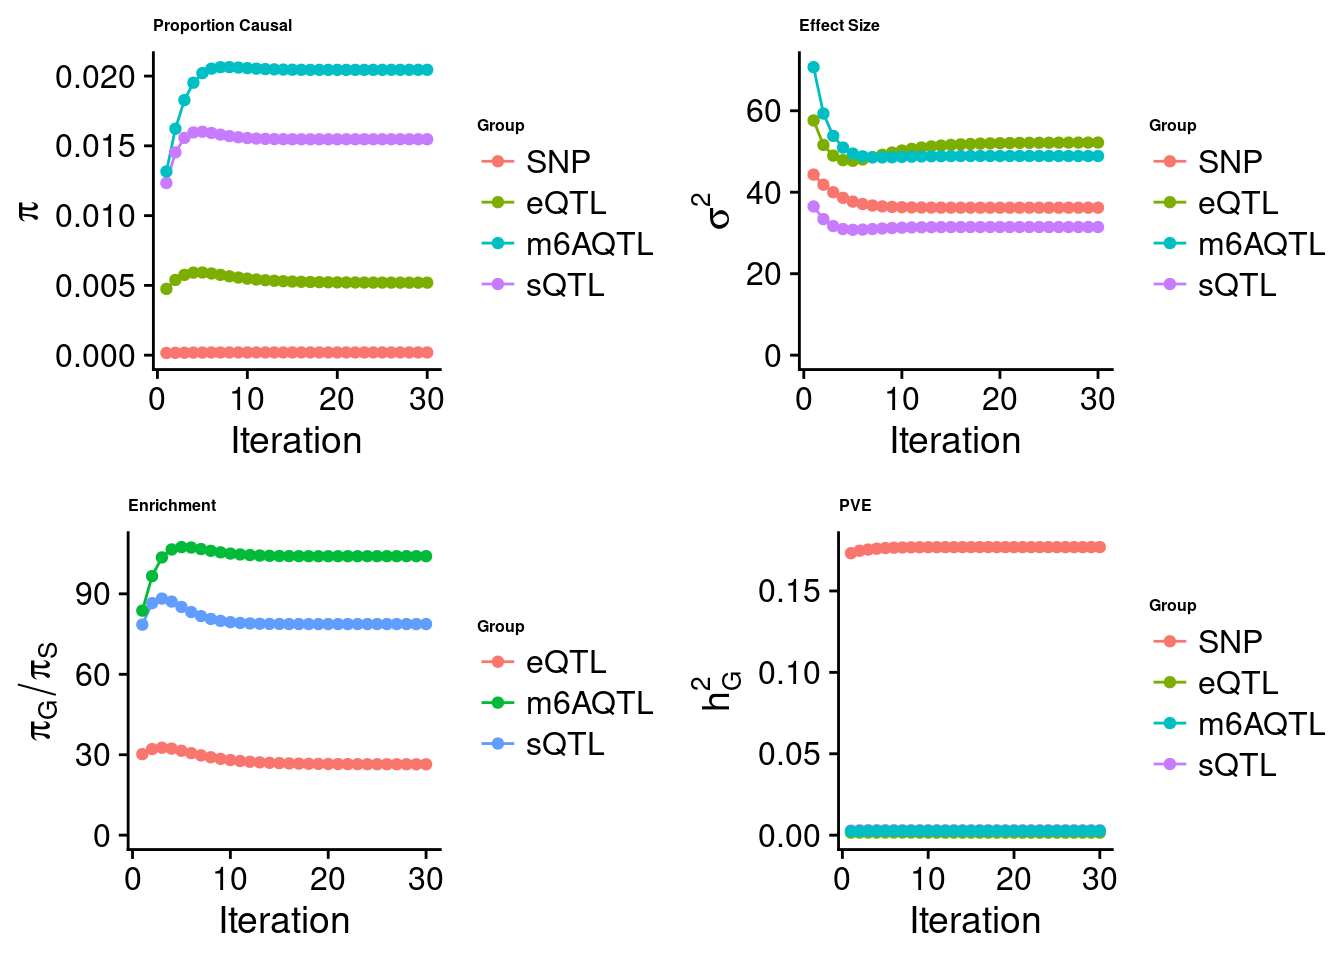
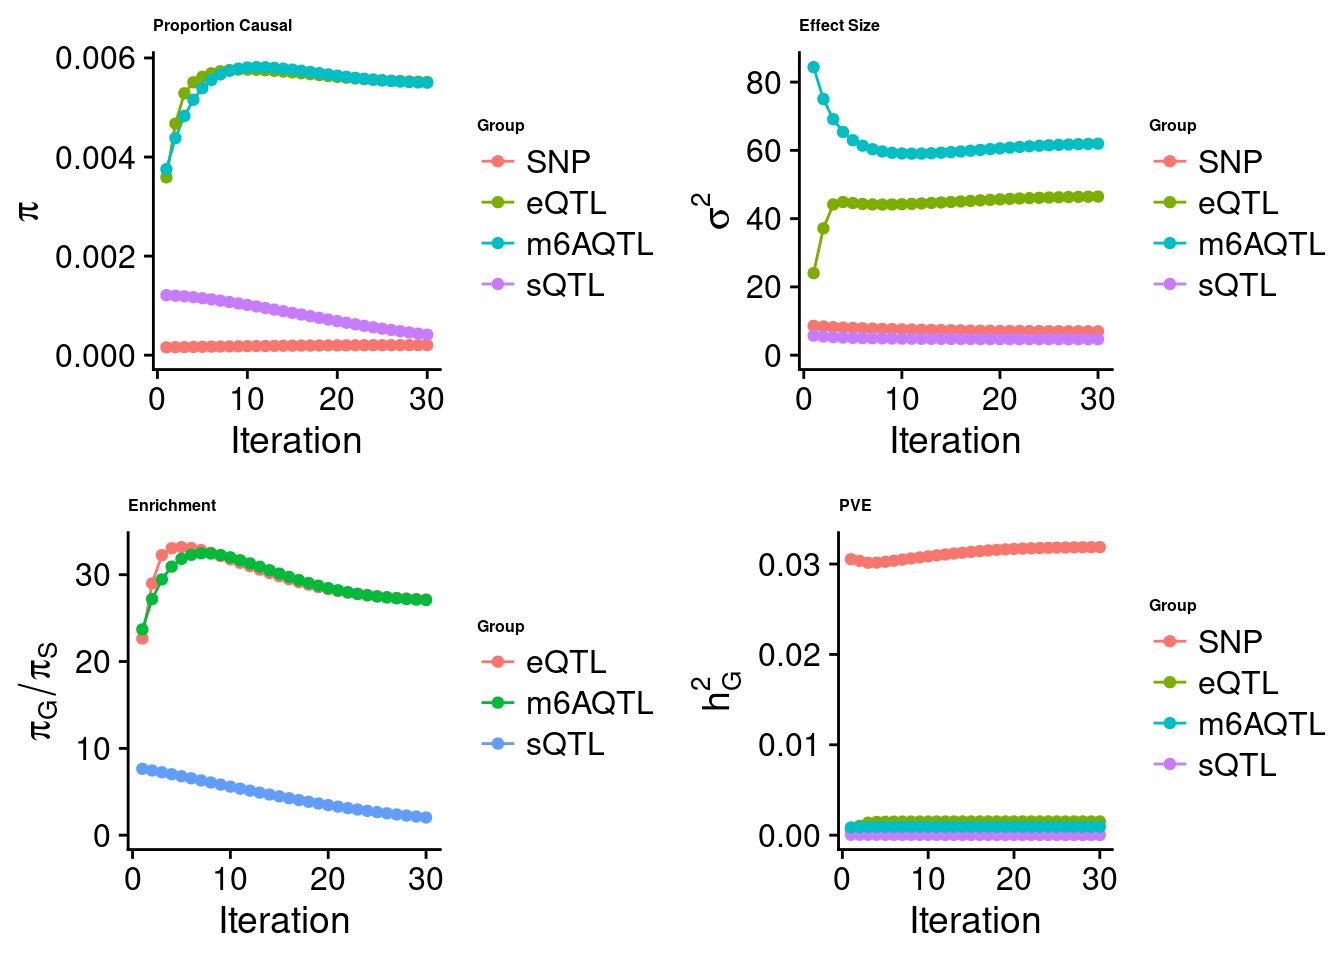
Build site.

diff --git a/docs/asthma_m6A_output_hg19.html b/docs/asthma_m6A_output_hg19.html
@@ -558,15 +558,15 @@ code/ctwas/qiansheng/locus_plot.R
 <div class="panel panel-default">
 <div class="panel-heading">
 <p class="panel-title">
-<a data-toggle="collapse" data-parent="#workflowr-checks" href="#strongRepositoryversionstrongahrefhttpsgithubcomj3gum6Aindiseasegeneticstree688d15ca9e9bf172b2a00fa730c0b4d1812985fetargetblank688d15ca">
+<a data-toggle="collapse" data-parent="#workflowr-checks" href="#strongRepositoryversionstrongahrefhttpsgithubcomj3gum6Aindiseasegeneticstreedaca41586b8e8e41d26b997e49091828b9beddc2targetblankdaca415a">
 <span class="glyphicon glyphicon-ok text-success"
 aria-hidden="true"></span> <strong>Repository version:</strong>
-<a href="https://github.com/j3gu/m6A_in_disease_genetics/tree/688d15ca9e9bf172b2a00fa730c0b4d1812985fe" target="_blank">688d15c</a>
+<a href="https://github.com/j3gu/m6A_in_disease_genetics/tree/daca41586b8e8e41d26b997e49091828b9beddc2" target="_blank">daca415</a>
 </a>
 </p>
 </div>
 <div
[2 lines of base64/hex data omitted]
 class="panel-collapse collapse">
 <div class="panel-body">
 <p>
@@ -576,7 +576,7 @@ reproducibility.
 </p>
 <p>
 The results in this page were generated with repository version
-<a href="https://github.com/j3gu/m6A_in_disease_genetics/tree/688d15ca9e9bf172b2a00fa730c0b4d1812985fe" target="_blank">688d15c</a>.
+<a href="https://github.com/j3gu/m6A_in_disease_genetics/tree/daca41586b8e8e41d26b997e49091828b9beddc2" target="_blank">daca415</a>.
 See the <em>Past versions</em> tab to see a history of the changes made
 to the R Markdown and HTML files.
 </p>
@@ -679,6 +679,7 @@ Untracked files:
     Untracked:  output/all_m6a_sites_with_paired_cisNATs_summary_PP40.3.csv
     Untracked:  output/all_m6a_sites_with_paired_cisNATs_summary_PP40.5.csv
     Untracked:  output/all_m6a_sites_with_paired_cis_NATs.csv
+    Untracked:  output/ctwas_m6a_joint_pip_above_0.6.RData
     Untracked:  output/fine_mapped_m6AQTLs_TWAS_genes_highPP4.rds
     Untracked:  output/gene_summary.csv
     Untracked:  output/immune_related_m6A_targets.csv
@@ -771,6 +772,40 @@ Message
 Rmd
 </td>
 <td>
+<a href="https://github.com/j3gu/m6A_in_disease_genetics/blob/daca41586b8e8e41d26b997e49091828b9beddc2/analysis/asthma_m6A_output_hg19.Rmd" target="_blank">daca415</a>
+</td>
+<td>
+Jing Gu
+</td>
+<td>
+2023-08-22
+</td>
+<td>
+ctwas on asthma
+</td>
+</tr>
+<tr>
+<td>
+html
+</td>
+<td>
+<a href="https://rawcdn.githack.com/j3gu/m6A_in_disease_genetics/866865b043df7a9dbbdd763f3d2b69a63fab6cfb/docs/asthma_m6A_output_hg19.html" target="_blank">866865b</a>
+</td>
+<td>
+Jing Gu
+</td>
+<td>
+2023-08-22
+</td>
+<td>
+Build site.
+</td>
+</tr>
+<tr>
+<td>
+Rmd
+</td>
+<td>
 <a href="https://github.com/j3gu/m6A_in_disease_genetics/blob/688d15ca9e9bf172b2a00fa730c0b4d1812985fe/analysis/asthma_m6A_output_hg19.Rmd" target="_blank">688d15c</a>
 </td>
 <td>
@@ -817,15 +852,52 @@ running ctwas.</p>
 [1] &quot;Table of group size before/after matching with UKBB SNPs:&quot;
                           SNP      eQTL     sQTL   m6AQTL
 prior_group_size    9.324e+06 2005.0000 2191.000 918.0000
-group_size          8.713e+06 1998.0000 2180.000 912.0000
-percent_of_overlaps 9.345e-01    0.9965    0.995   0.9935
+group_size          7.547e+06 1998.0000 2180.000 911.0000
+percent_of_overlaps 8.094e-01    0.9965    0.995   0.9924
                                 SNP      eQTL      sQTL    m6AQTL
-estimated_group_prior     1.965e-04  0.005196  0.015474  0.020449
-estimated_group_prior_var 3.621e+01 52.195130 31.455925 48.887256
-estimated_group_pve       1.769e-01  0.001546  0.003028  0.002601
-attributable_group_pve    9.610e-01  0.008398  0.016445  0.014130</code></pre>
+estimated_group_prior     0.0002031  0.005515 4.130e-04 5.500e-03
+estimated_group_prior_var 7.0019346 46.466053 4.664e+00 6.196e+01
+estimated_group_pve       0.0318723  0.001520 1.247e-05 9.219e-04
+attributable_group_pve    0.9284930  0.044288 3.632e-04 2.686e-02</code></pre>
 <pre><code>$lasso</code></pre>
 <p><img src="figure/asthma_m6A_output_hg19.Rmd/unnamed-chunk-6-1.png" width="672" style="display: block; margin: auto;" /></p>
+<p>
+<button type="button" class="btn btn-default btn-xs btn-workflowr btn-workflowr-fig" data-toggle="collapse" data-target="#fig-unnamed-chunk-6-1">
+Past versions of unnamed-chunk-6-1.png
+</button>
+</p>
+<div id="fig-unnamed-chunk-6-1" class="collapse">
+<div class="table-responsive">
+<table class="table table-condensed table-hover">
+<thead>
+<tr>
+<th>
+Version
+</th>
+<th>
+Author
+</th>
+<th>
+Date
+</th>
+</tr>
+</thead>
+<tbody>
+<tr>
+<td>
+<a href="https://github.com/j3gu/m6A_in_disease_genetics/blob/866865b043df7a9dbbdd763f3d2b69a63fab6cfb/docs/figure/asthma_m6A_output_hg19.Rmd/unnamed-chunk-6-1.png" target="_blank">866865b</a>
+</td>
+<td>
+Jing Gu
+</td>
+<td>
+2023-08-22
+</td>
+</tr>
+</tbody>
+</table>
+</div>
+</div>
 </div>
 <div id="ctwas-results-for-individual-analysis-with-m6a"
 class="section level2">
@@ -849,127 +921,102 @@ needs to be confirmed with Kevin).</p>
 <p><strong>Top SNPs or genes with PIP &gt; 0.6</strong></p>
 <pre><code>$eQTL
      genename susie_pip group region_tag
-1967   ZNF132    0.9859  eQTL      19_39
-1806   MMACHC    0.9699  eQTL       1_29
-1954   DNASE2    0.7971  eQTL      19_10
-979     TRIM5    0.7582  eQTL       11_4
-1831   WRNIP1    0.6198  eQTL        6_3
+1982   ORMDL3    0.9960  eQTL      17_23
+1973    AP5B1    0.9119  eQTL      11_36
+1992 SLC25A19    0.8696  eQTL      17_42
 
 $m6AQTL
      genename susie_pip  group region_tag
-5051 C17orf62    0.9632 m6AQTL      17_47
-5021 SLC25A11    0.9579 m6AQTL       17_5
-5088   UBE2G2    0.9184 m6AQTL      21_23
-4984  THEMIS2    0.9180 m6AQTL       1_19
-5008    TRAF2    0.8983 m6AQTL       9_74
-5043    TAOK1    0.8696 m6AQTL      17_18
-5019    PHF11    0.8610 m6AQTL      13_21
-5075    AKAP8    0.8485 m6AQTL      19_12
-5003  ZSCAN25    0.8295 m6AQTL       7_61
-4993   PLXNA1    0.7925 m6AQTL       3_79
-4534    GSDMD    0.7594 m6AQTL       8_94
-5009    QSER1    0.6970 m6AQTL      11_22
-4617    CD151    0.6313 m6AQTL       11_1
-4995     AFF1    0.6087 m6AQTL       4_59
+5082   GPR183         1 m6AQTL      13_50
+5071    ZMAT2         1 m6AQTL       5_83
 
 $sQTL
-     genename susie_pip group region_tag
-4173   ABHD12    0.9999  sQTL      20_19
-4113    TOP3A    0.9998  sQTL      17_15
-4004     ATIC    0.8582  sQTL      2_127
-4017   FYTTD1    0.8315  sQTL      3_122
-2406     USP4    0.7884  sQTL       3_35
-3609    CWC25    0.7309  sQTL      17_23
-3050  CWF19L1    0.7192  sQTL      10_64
-2486   OCIAD2    0.6824  sQTL       4_38
-4011    GSK3B    0.6606  sQTL       3_74
-3617    HDAC5    0.6494  sQTL      17_26
-2992    RPL12    0.6465  sQTL       9_66
-3111    SAAL1    0.6340  sQTL      11_13</code></pre>
+[1] genename   susie_pip  group      region_tag
+&lt;0 rows&gt; (or 0-length row.names)</code></pre>
 <div id="top-m6a-modification-pip-1" class="section level3">
 <h3>Top m6A modification pip</h3>
-<pre><code>   genename region_tag susie_pip       z
-1  C17orf62      17_47    0.9632   5.066
-2  SLC25A11       17_5    0.9579 -15.751
-3    UBE2G2      21_23    0.9184  -4.584
-4   THEMIS2       1_19    0.9180   8.682
-5     TRAF2       9_74    0.8983  -4.373
-6     TAOK1      17_18    0.8696 -29.517
-7     PHF11      13_21    0.8610  -5.372
-8     AKAP8      19_12    0.8485  -5.185
-9   ZSCAN25       7_61    0.8295  -5.164
-10   PLXNA1       3_79    0.7925  -5.597</code></pre>
+<pre><code>   genename region_tag susie_pip      z
+1    GPR183      13_50   1.00000 -7.249
+2     ZMAT2       5_83   1.00000  3.616
+3     TOMM5       9_28   0.17931  3.404
+4     TLR10       4_31   0.13819  7.394
+5    LETMD1      12_31   0.10604  3.440
+6     P2RX5       17_3   0.08888 -2.719
+7   PIP4K2A      10_17   0.08783  3.211
+8    DNAJB1      19_12   0.08778  2.806
+9     TMUB1       7_94   0.07304 -2.706
+10     EPC1      10_24   0.07202  3.462</code></pre>
 <p><strong>Summing up PIPs for m6A peaks located in the same
 gene</strong></p>
 <p>Top 10 m6A PIPs by genes</p>
-<pre><code># A tibble: 819 × 2
+<pre><code># A tibble: 818 × 2
    genename total_susie_pip
    &lt;chr&gt;              &lt;dbl&gt;
- 1 C17orf62           0.963
- 2 SLC25A11           0.958
- 3 UBE2G2             0.918
- 4 THEMIS2            0.918
- 5 TRAF2              0.898
- 6 TAOK1              0.870
- 7 PHF11              0.861
- 8 AKAP8              0.849
- 9 ZSCAN25            0.829
-10 GSDMD              0.818
-# ℹ 809 more rows</code></pre>
+ 1 GPR183            1     
+ 2 ZMAT2             1.00  
+ 3 TOMM5             0.179 
+ 4 TLR10             0.138 
+ 5 LETMD1            0.106 
+ 6 P2RX5             0.0889
+ 7 PIP4K2A           0.0878
+ 8 DNAJB1            0.0878
+ 9 EPC1              0.0758
+10 TMUB1             0.0730
+# ℹ 808 more rows</code></pre>
 </div>
 <div id="top-splicing-pips" class="section level3">
 <h3>Top splicing PIPs</h3>
-<pre><code>                     peak_id genename       pos region_tag susie_pip      z
-1    chr20:25275666-25282855   ABHD12  25260931      20_19    0.9999  5.559
-2    chr17:18188834-18193814    TOP3A  18095978      17_15    0.9998 -6.421
-3   chr2:216213972-216224011     ATIC 216116915      2_127    0.8582 -3.866
-4   chr3:197495458-197495689   FYTTD1 197441584      3_122    0.8315  4.156
-5     chr3:49339975-49348053     USP4  49255503       3_35    0.7884  4.115
-6    chr17:36959114-36963018    CWC25  36957432      17_23    0.7309 -4.441
-7  chr10:102012941-102013178  CWF19L1 101937969      10_64    0.7192 -5.782
-8     chr4:48887582-48896023   OCIAD2  48843230       4_38    0.6824  5.587
-9   chr3:119582452-119624602    GSK3B 119503971       3_74    0.6606  4.097
-10   chr17:42162523-42163940    HDAC5  42083840      17_26    0.6494  5.985</code></pre>
+<pre><code>                    peak_id genename       pos region_tag susie_pip      z
+1      chr1:8021853-8022823    PARK7   7961294        1_6   0.03740 -3.725
+2      chr1:8021795-8022823    PARK7   8009763        1_6   0.03180  3.684
+3      chr7:6624891-6628248   ZDHHC4   6527973        7_9   0.02119  3.326
+4   chr18:33747185-33751010     ELP2  33686857      18_19   0.02088  4.034
+5  chr3:156271570-156271782     SSR3 156239308       3_97   0.02022  3.507
+6  chr8:103842446-103845284    AZIN1 103775175       8_69   0.01772  2.928
+7   chr10:74823089-74828604    P4HA1  74741181      10_49   0.01708  3.272
+8      chr7:6624891-6628027   ZDHHC4   6527973        7_9   0.01627 -3.193
+9    chr7:74197382-74197868     NCF1  74097488       7_48   0.01618  2.995
+10   chr7:74197404-74197868     NCF1  74097488       7_48   0.01616 -2.981</code></pre>
 <p><strong>Summing up PIPs for spliced introns located in the same
 gene</strong></p>
 <p>Top 10 splicing PIPs by genes</p>
 <pre><code># A tibble: 10 × 2
-   genename    total_susie_pip
-   &lt;chr&gt;                 &lt;dbl&gt;
- 1 HNRNPK                1.09 
- 2 ABHD12                1.00 
- 3 TOP3A                 1.00 
- 4 MAN2C1                0.893
- 5 ATIC                  0.887
- 6 FYTTD1                0.832
- 7 USP4                  0.788
- 8 INO80B-WBP1           0.787
- 9 OS9                   0.772
-10 STYXL1                0.748</code></pre>
+   genename total_susie_pip
+   &lt;chr&gt;              &lt;dbl&gt;
+ 1 PARK7             0.0707
+ 2 MRPL43            0.0455
+ 3 ZDHHC4            0.0390
+ 4 IMMP1L            0.0325
+ 5 NCF1              0.0323
+ 6 EZR               0.0315
+ 7 WARS1             0.0313
+ 8 SEMA4G            0.0305
+ 9 MCOLN2            0.0291
+10 ALDH3A2           0.0278</code></pre>
 </div>
 <div id="top-genes-by-combined-pip" class="section level3">
 <h3>Top genes by combined PIP</h3>
-<pre><code>        genename combined_pip expression_pip splicing_pip  m6A_pip region_tag
-1518      HNRNPK        1.136      0.0000000    1.0874414 0.048709       9_41
-3059       TOP3A        1.002      0.0003334    0.9998311 0.001439      17_15
-14        ABHD12        1.000      0.0000000    0.9999456 0.000000      20_19
-3323      ZNF132        0.986      0.9858564    0.0000000 0.000000      19_39
-1863      MMACHC        0.970      0.9699293    0.0000000 0.000000       1_29
-354     C17orf62        0.963      0.0000000    0.0000000 0.963176      17_47
-2703    SLC25A11        0.958      0.0000000    0.0000000 0.957935       17_5
-2962     THEMIS2        0.918      0.0000000    0.0000000 0.917981       1_19
-3166      UBE2G2        0.918      0.0000000    0.0000000 0.918412      21_23
-3074       TRAF2        0.898      0.0000000    0.0000000 0.898278       9_74
-1757      MAN2C1        0.893      0.0000000    0.8925246 0.000000      15_35
-239         ATIC        0.887      0.0000000    0.8868402 0.000000      2_127
-2908       TAOK1        0.870      0.0000000    0.0000000 0.869561      17_18
-2208       PHF11        0.862      0.0000000    0.0005345 0.861005      13_21
-111        AKAP8        0.849      0.0000000    0.0000000 0.848503      19_12
-1355      FYTTD1        0.832      0.0000000    0.8315149 0.000000      3_122
-3095       TRIM5        0.832      0.7581670    0.0736236 0.000000       11_4
-3397     ZSCAN25        0.829      0.0000000    0.0000000 0.829473       7_61
-1437       GSDMD        0.823      0.0042699    0.0000000 0.818362       8_94
-1581 INO80B-WBP1        0.804      0.0000000    0.7870720 0.017100       2_48</code></pre>
+<pre><code>     genename combined_pip expression_pip splicing_pip  m6A_pip region_tag
+1424   GPR183        1.000        0.00000     0.000000 1.000000      13_50
+3317    ZMAT2        1.000        0.00000     0.000000 1.000000       5_83
+2122   ORMDL3        0.996        0.99605     0.000000 0.000000      17_23
+182     AP5B1        0.912        0.91186     0.000000 0.000000      11_36
+2705 SLC25A19        0.870        0.86962     0.000000 0.000000      17_42
+2579    RPS26        0.587        0.58660     0.000000 0.000000      12_36
+735      DMPK        0.547        0.54692     0.000000 0.000000      19_34
+1563   IL10RB        0.252        0.24554     0.000000 0.006712      21_15
+2290   POLR3H        0.234        0.23371     0.000000 0.000000      22_17
+595     COQ8B        0.205        0.20532     0.000000 0.000000      19_28
+3053    TOMM5        0.179        0.00000     0.000000 0.179314       9_28
+1899   MRPL43        0.168        0.07241     0.045547 0.049718      10_64
+2509  RNASET2        0.157        0.15712     0.000000 0.000000      6_109
+184   APBB1IP        0.152        0.15233     0.000000 0.000000      10_19
+2979    TLR10        0.147        0.00000     0.008448 0.138192       4_31
+2657 SERPINH1        0.138        0.13765     0.000000 0.000000      11_42
+740    DNAJB1        0.135        0.04699     0.000000 0.087775      19_12
+1771  MARCHF3        0.124        0.12445     0.000000 0.000000       5_77
+1626   KDELR2        0.121        0.12122     0.000000 0.000000        7_9
+360  C19orf54        0.114        0.07918     0.007764 0.026720      19_28</code></pre>
 <!-- ## GO enrichment analysis for genes with PIP>0.5 -->
 <!-- ```{r echo=FALSE, message=FALSE, eval=FALSE} -->
 <!-- #GO enrichment analysis -->
